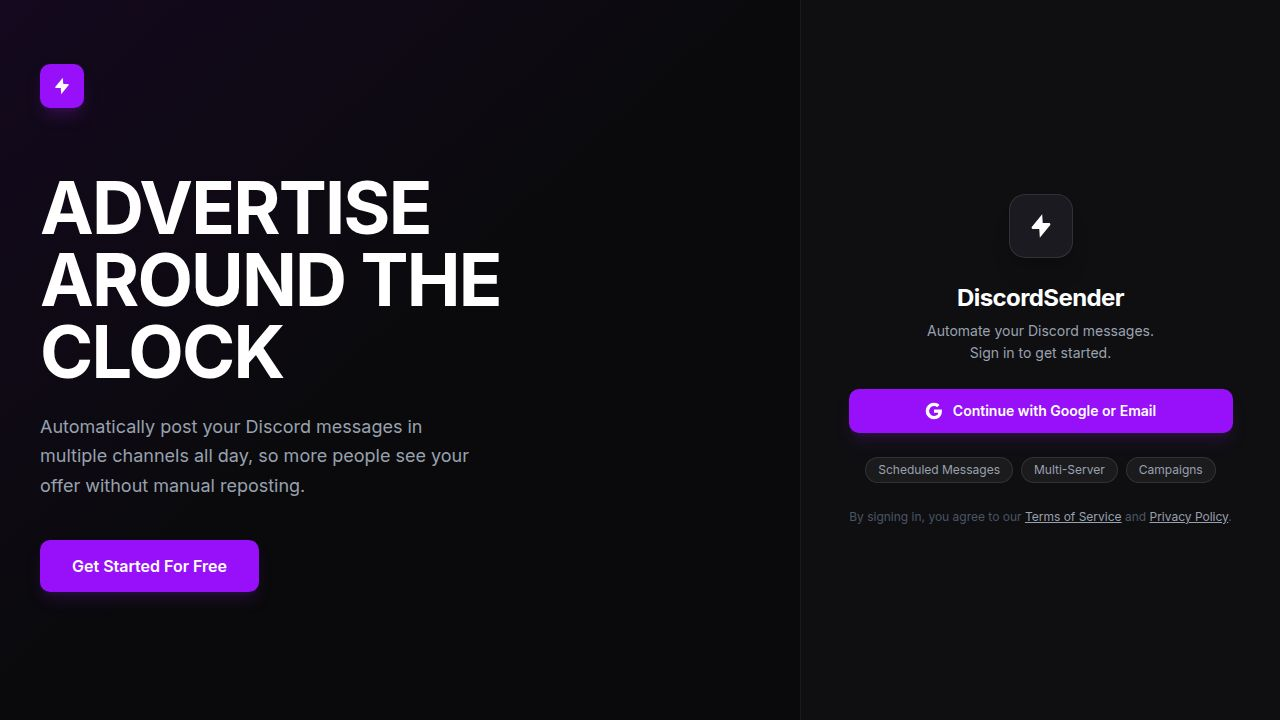
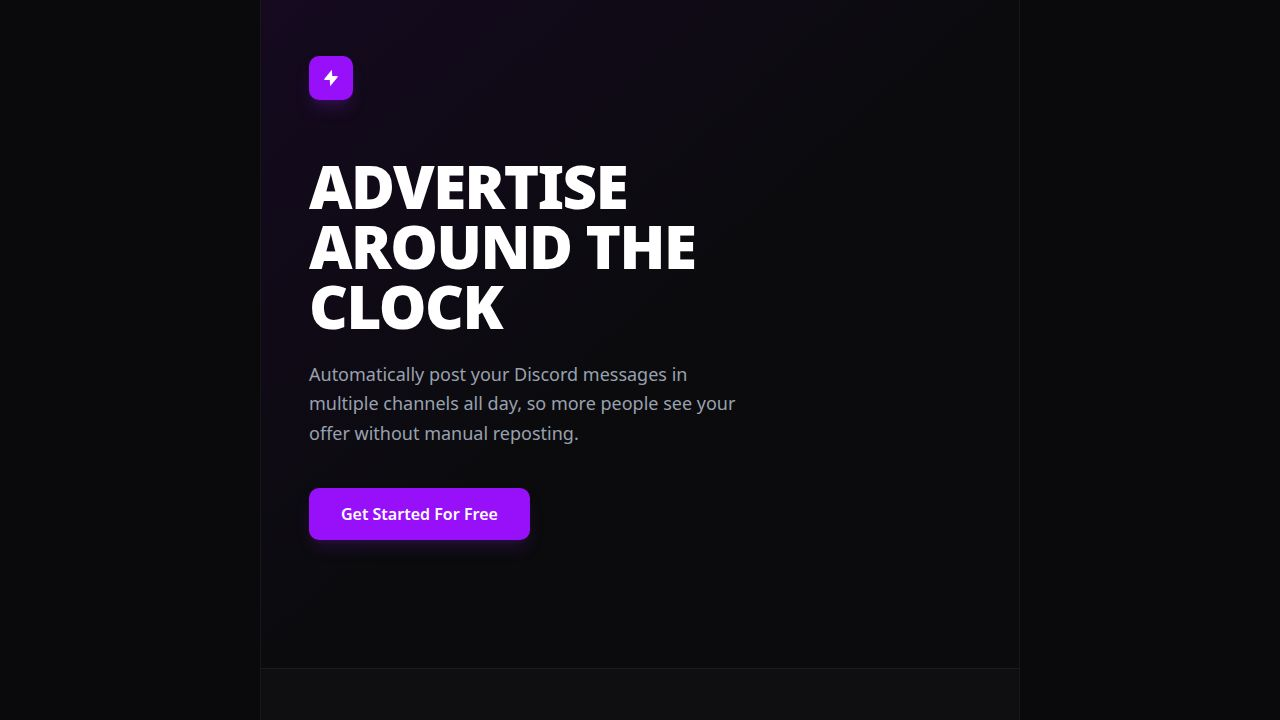
Adjust website layout to be more vertical and narrower
Update `home.tsx` and `landing.tsx` to constrain content width, stack elements vertically, and adjust spacing for a more portrait-oriented design.

Replit-Commit-Author: Agent
Replit-Commit-Session-Id: c72cfbbf-d574-4012-9ade-16cfa17c8334
Replit-Commit-Checkpoint-Type: full_checkpoint
Replit-Commit-Event-Id: ccf3f673-4854-4157-95c1-7fe0f3481ef9
Replit-Commit-Screenshot-Url: https://storage.googleapis.com/screenshot-production-us-central1/a289eafb-2373-4ebe-9512-5418cb1d1b25/c72cfbbf-d574-4012-9ade-16cfa17c8334/8EaMn9h
Replit-Helium-Checkpoint-Created: true

diff --git a/artifacts/discord-autosender/src/pages/home.tsx b/artifacts/discord-autosender/src/pages/home.tsx
@@ -700,7 +700,8 @@ export default function Home() {
   ];
 
   return (
-    <div className="h-screen flex bg-background text-foreground overflow-hidden">
+    <div className="min-h-screen bg-background text-foreground flex justify-center overflow-y-auto cyber-grid">
+      <div className="h-screen w-full max-w-[920px] flex overflow-hidden bg-background/95 border-x border-border/70">
       {/* Dialogs */}
       <CampaignLogDialog
         campaignId={logDialogId!}
@@ -711,7 +712,7 @@ export default function Home() {
       <TestSendDialog results={testResults} open={showTestDialog} onClose={() => setShowTestDialog(false)} />
 
       {/* Sidebar */}
-      <aside className="w-52 bg-sidebar border-r border-sidebar-border flex flex-col shrink-0">
+      <aside className="w-44 bg-sidebar border-r border-sidebar-border flex flex-col shrink-0">
         <div className="px-4 py-4 border-b border-sidebar-border">
           <div className="flex items-center gap-2.5">
             <img src={logoUrl} alt="logo" className="w-8 h-8 rounded-xl shrink-0 object-cover" />
@@ -766,7 +767,7 @@ export default function Home() {
 
       {/* Main */}
       <div className="flex-1 flex flex-col min-w-0 overflow-hidden">
-        <header className="border-b border-border bg-card/40 px-6 py-3.5 flex items-center justify-between shrink-0">
+        <header className="border-b border-border bg-card/40 px-4 py-3.5 flex items-center justify-between shrink-0">
           <div>
             <h1 className="text-base font-semibold text-foreground capitalize">{activeView === "ai-reply" ? "AI Reply" : activeView}</h1>
             <p className="text-xs text-muted-foreground">
@@ -781,17 +782,17 @@ export default function Home() {
           </div>
         </header>
 
-        <main className="flex-1 overflow-y-auto p-6">
+        <main className="flex-1 overflow-y-auto p-4">
 
           {/* ── DASHBOARD ── */}
           {activeView === "dashboard" && (
-            <div className="space-y-5 max-w-5xl">
+            <div className="space-y-5 max-w-2xl mx-auto">
               <div className="flex items-start gap-3 p-3 rounded-xl border border-amber-500/20 bg-amber-500/5 text-amber-400/90">
                 <AlertTriangle className="w-4 h-4 mt-0.5 shrink-0" />
                 <p className="text-xs leading-relaxed">Self-botting via user tokens violates Discord's Terms of Service and may result in account termination. Use at your own risk.</p>
               </div>
 
-              <div className="grid grid-cols-2 gap-3">
+              <div className="grid grid-cols-1 gap-3">
                 <div className="rounded-xl border border-border bg-card/60 p-4">
                   <div className="text-[10px] font-semibold uppercase tracking-widest text-muted-foreground mb-3 flex items-center gap-1.5">
                     <Activity className="w-3 h-3 text-primary" />Today
@@ -824,7 +825,7 @@ export default function Home() {
                 </div>
               </div>
 
-              <div className="grid grid-cols-3 gap-3">
+              <div className="grid grid-cols-1 sm:grid-cols-2 gap-3">
                 {[
                   { label: "Campaigns", value: campaigns.length, icon: <Radio className="w-4 h-4" />, sub: `${runningCount} running`, color: "text-primary" },
                   { label: "Channels", value: campaigns.reduce((s, c) => s + c.channels.length, 0), icon: <MessageSquare className="w-4 h-4" />, sub: "All campaigns", color: "text-violet-300" },
@@ -841,7 +842,7 @@ export default function Home() {
                 ))}
               </div>
 
-              <div className="grid grid-cols-3 gap-3">
+              <div className="grid grid-cols-1 gap-3">
                 {[
                   { icon: <Shield className="w-3.5 h-3.5" />, label: "Anti-Detection", desc: "UA rotation + human delays + burst breaks", color: "text-cyan-400 border-cyan-400/20 bg-cyan-400/5" },
                   { icon: <Gauge className="w-3.5 h-3.5" />, label: "Adaptive Rate Limit", desc: "Auto-increases interval on 429 errors", color: "text-amber-400 border-amber-400/20 bg-amber-400/5" },
@@ -896,7 +897,7 @@ export default function Home() {
 
           {/* ── AUTOSENDER ── */}
           {activeView === "autosender" && (
-            <div className="max-w-xl space-y-4">
+            <div className="max-w-xl mx-auto space-y-4">
               <div className="flex items-center justify-between">
                 <div className="flex items-center gap-2 flex-wrap">
                   <Badge className="bg-green-500/10 text-green-400 border-green-500/20 text-[10px] gap-1"><Activity className="w-2.5 h-2.5" />Server-side 24/7</Badge>
@@ -1139,8 +1140,8 @@ export default function Home() {
 
           {/* ── AI REPLY ── */}
           {activeView === "ai-reply" && (
-            <div className="max-w-5xl space-y-4">
-              <div className="grid grid-cols-1 lg:grid-cols-2 gap-4">
+            <div className="max-w-xl mx-auto space-y-4">
+              <div className="grid grid-cols-1 gap-4">
                 <div className="rounded-xl border border-border bg-card/60 p-4 space-y-4">
                   <h3 className="text-xs font-semibold uppercase tracking-widest text-muted-foreground flex items-center gap-2"><Key className="w-3.5 h-3.5 text-primary" />Token & Persona</h3>
                   {saveUserSettings.isPending && (
@@ -1236,7 +1237,7 @@ export default function Home() {
 
           {/* ── TOKENS ── */}
           {activeView === "tokens" && (
-            <div className="max-w-2xl space-y-4">
+            <div className="max-w-xl mx-auto space-y-4">
               <div className="rounded-xl border border-border bg-card/60 p-5 space-y-4">
                 <h3 className="text-xs font-semibold uppercase tracking-widest text-muted-foreground flex items-center gap-2"><Key className="w-3.5 h-3.5 text-primary" />Validate Discord Token</h3>
                 <div className="flex gap-2">
@@ -1279,6 +1280,7 @@ export default function Home() {
           )}
 
         </main>
+      </div>
       </div>
     </div>
   );

diff --git a/artifacts/discord-autosender/src/pages/landing.tsx b/artifacts/discord-autosender/src/pages/landing.tsx
@@ -33,9 +33,10 @@ export default function Landing() {
   };
 
   return (
-    <div className="min-h-screen bg-[#0a0a0c] text-white flex flex-col md:flex-row overflow-hidden">
+    <div className="min-h-screen bg-[#0a0a0c] text-white flex justify-center overflow-y-auto">
+      <div className="min-h-screen w-full max-w-[760px] flex flex-col border-x border-white/5 bg-[#0b0b0e]">
       {/* Left panel */}
-      <div className="flex-1 flex flex-col justify-between px-10 py-10 md:py-16 relative">
+      <div className="flex flex-col justify-between px-8 py-10 md:px-12 md:py-14 relative">
         {/* Subtle background gradient */}
         <div className="absolute inset-0 bg-gradient-to-br from-purple-950/20 via-transparent to-transparent pointer-events-none" />
 
@@ -47,8 +48,8 @@ export default function Landing() {
         </div>
 
         {/* Headline */}
-        <div className="relative flex-1 flex flex-col justify-center py-12 md:py-0">
-          <h1 className="text-5xl md:text-6xl lg:text-7xl font-black leading-[1.0] tracking-tight mb-6">
+        <div className="relative flex flex-col justify-center py-14">
+          <h1 className="text-5xl md:text-6xl font-black leading-[1.0] tracking-tight mb-6">
             ADVERTISE<br />
             AROUND THE<br />
             CLOCK
@@ -66,11 +67,11 @@ export default function Landing() {
         </div>
 
         {/* Spacer for bottom */}
-        <div className="h-8 md:hidden" />
+        <div className="h-4" />
       </div>
 
       {/* Right panel */}
-      <div className="w-full md:w-[420px] lg:w-[480px] bg-[#0f0f12] border-l border-white/5 flex items-center justify-center px-8 py-14">
+      <div className="w-full bg-[#0f0f12] border-t border-white/5 flex items-center justify-center px-8 py-14">
         <div className="w-full max-w-sm flex flex-col items-center gap-6">
           {/* App icon */}
           <div className="w-16 h-16 rounded-2xl bg-[#1a1a20] border border-white/10 flex items-center justify-center shadow-xl">
@@ -116,6 +117,7 @@ export default function Landing() {
             <span className="text-gray-400 underline cursor-pointer">Privacy Policy</span>.
           </p>
         </div>
+      </div>
       </div>
     </div>
   );
